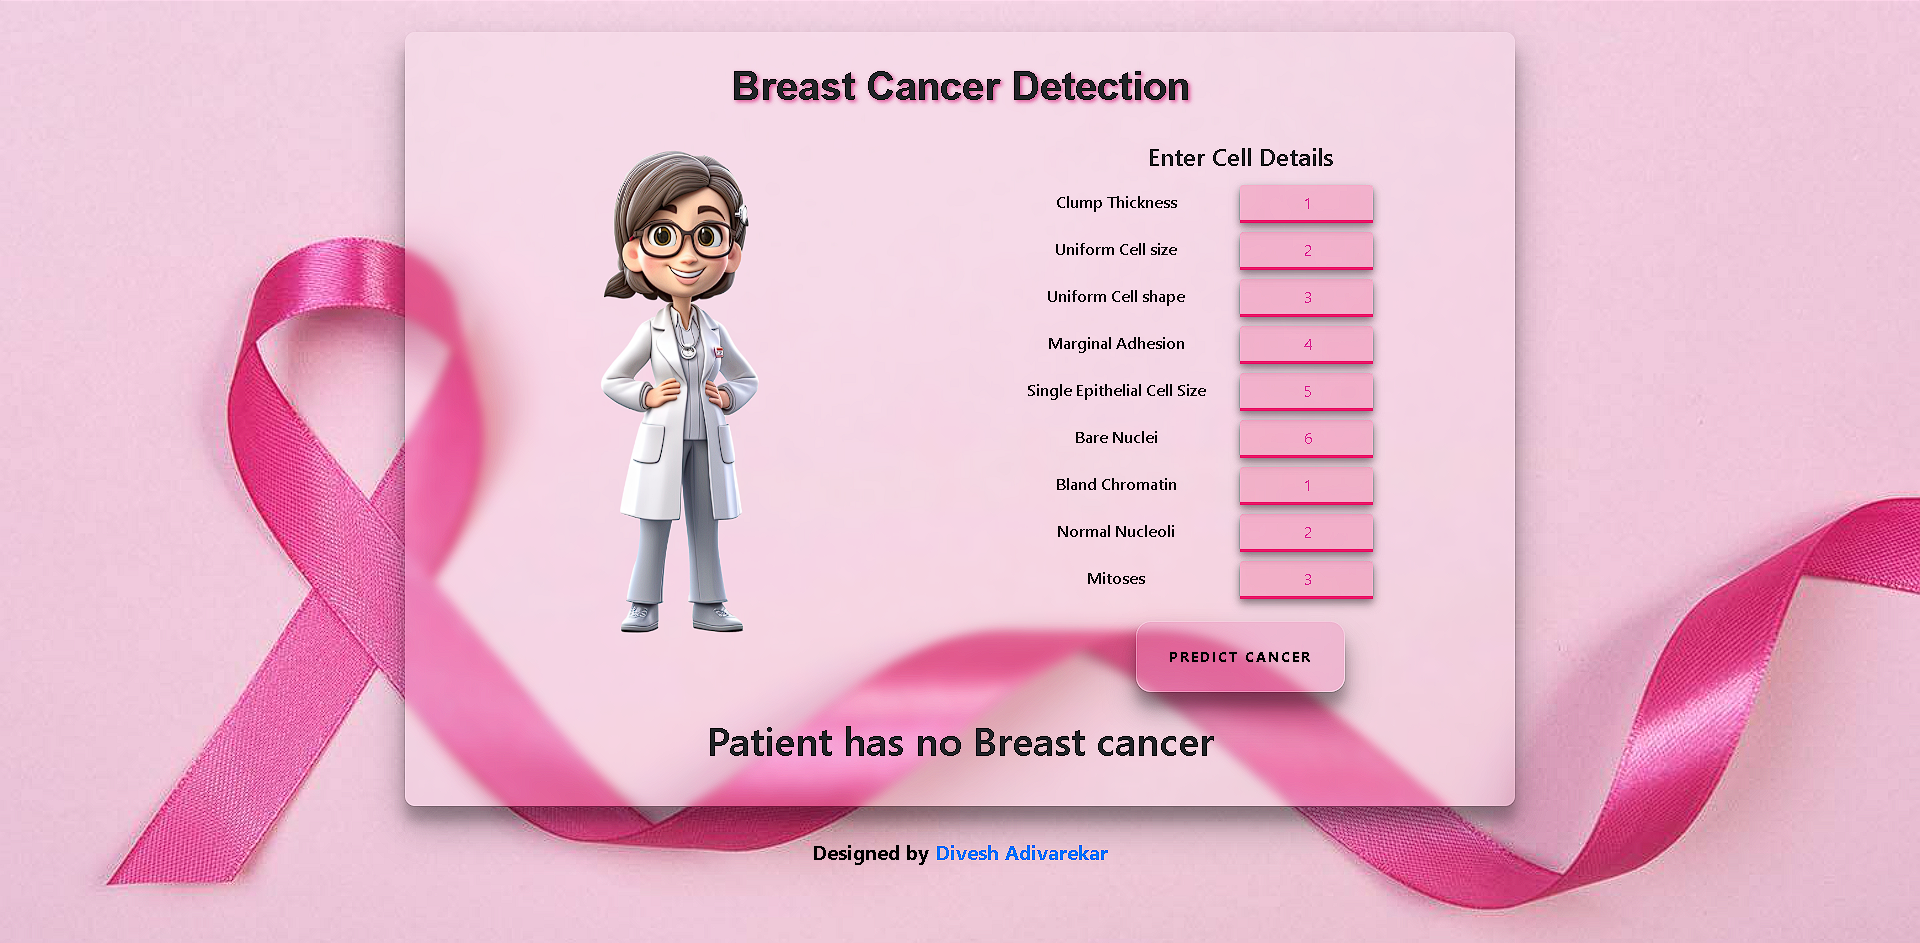
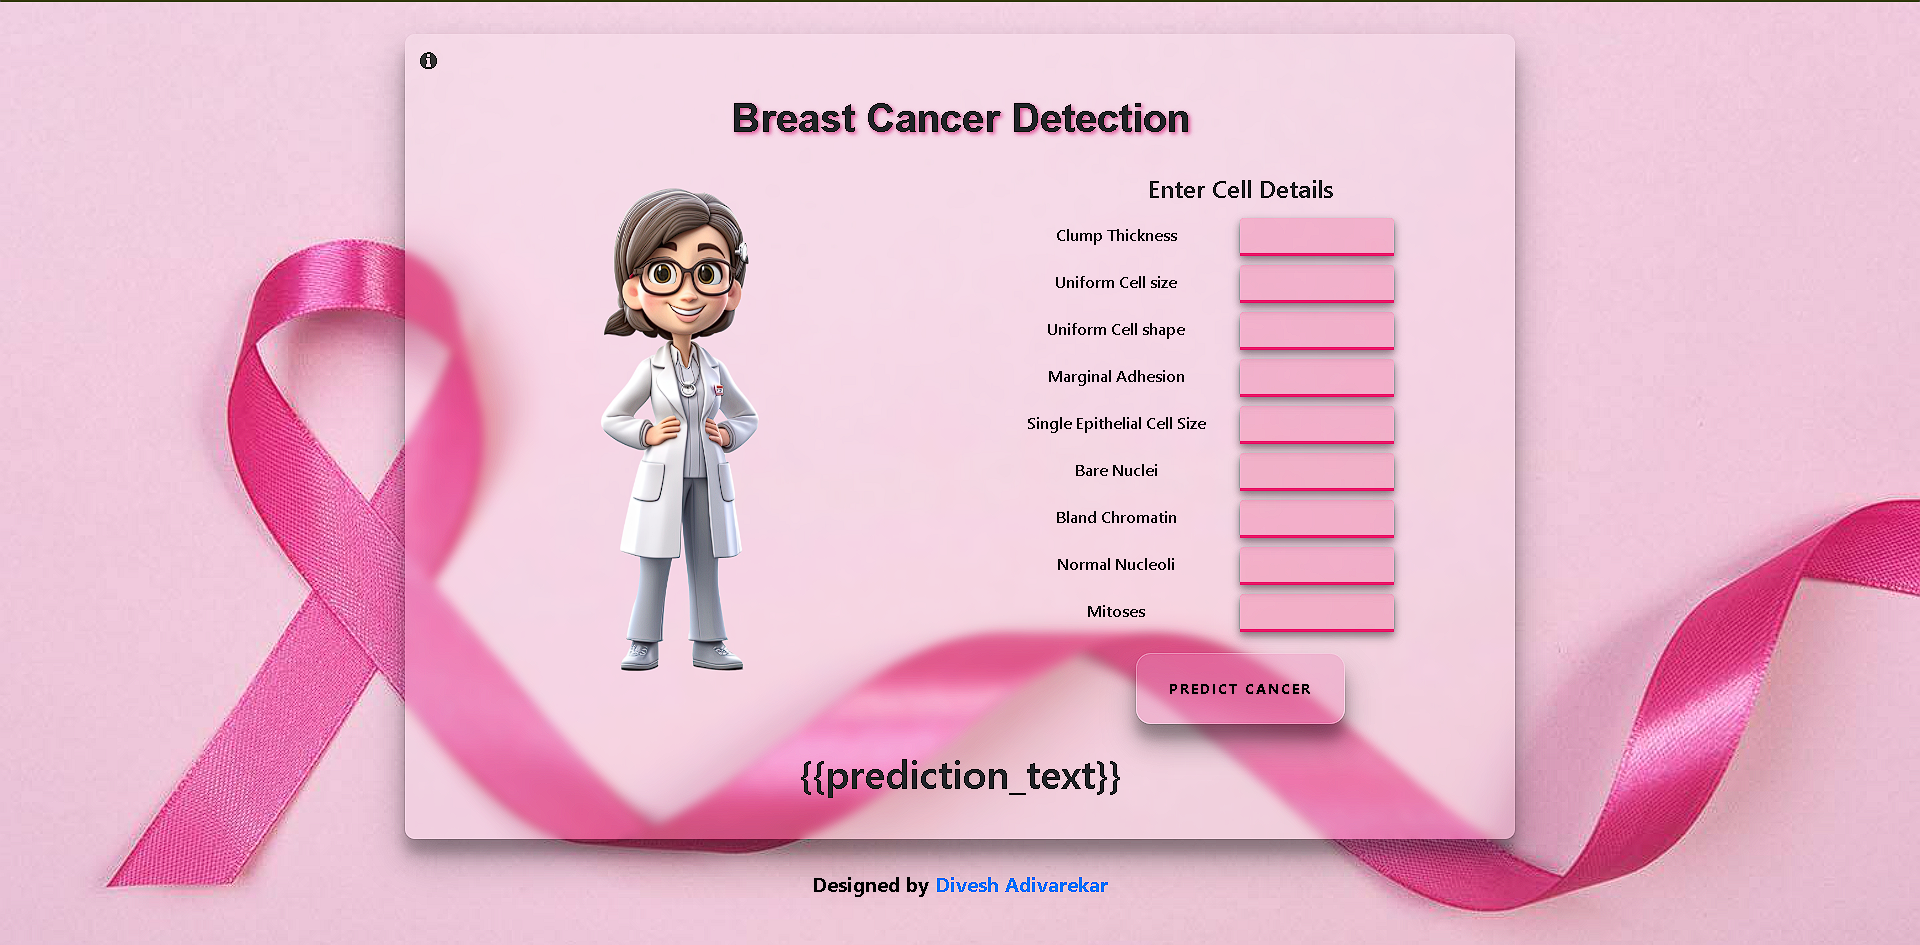
added info button

diff --git a/templates/index.html b/templates/index.html
@@ -10,6 +10,10 @@
       integrity="sha384-ggOyR0iXCbMQv3Xipma34MD+dH/1fQ784/j6cY/iJTQUOhcWr7x9JvoRxT2MZw1T"
       crossorigin="anonymous"
     />
+    <link
+      href="https://netdna.bootstrapcdn.com/font-awesome/3.2.1/css/font-awesome.css"
+      rel="stylesheet"
+    />
     <title>Breast Cancer Detection</title>
     <style>
       /*just bg and body style*/
@@ -117,6 +121,40 @@
         font-size: 20px;
         font-weight: bold;
       }
+
+      .extra-info {
+        display: none;
+        line-height: 30px;
+        font-size: 14px;
+        position: absolute;
+        top: 10px;
+        left: 50px;
+      }
+
+      .info:hover .extra-info {
+        display: block;
+      }
+
+      .info {
+        font-size: 20px;
+        font-weight: 500;
+        padding-left: 5px;
+        width: 20px;
+        border-radius: 15px;
+        transition: all 0.2s ease;
+      }
+
+      .info:hover {
+        background-color: rgba(220, 84, 152, 0.6);
+        padding: 0 0 0 5px;
+        width: 260px;
+        text-align: left !important;
+      }
+      .info a {
+        cursor: pointer;
+        color: #333;
+        text-decoration: none;
+      }
     </style>
 
     <!--Font Awesome-->
@@ -156,6 +194,19 @@
       <div class="row">
         <div class="col-md-12">
           <div class="btn-container">
+            <!-- info button -->
+            <div class="info">
+              <a
+                href="https://en.wikipedia.org/wiki/Breast_cancer"
+                target="_blank"
+              >
+                <i class="icon-info-sign"></i>
+                <span class="extra-info">
+                  Learn more about Breast Cancer
+                </span></a
+              >
+            </div>
+
             <h1 class="head">Breast Cancer Detection</h1>
             <!-- Main Input For Receiving Query to our ML -->
             <form
